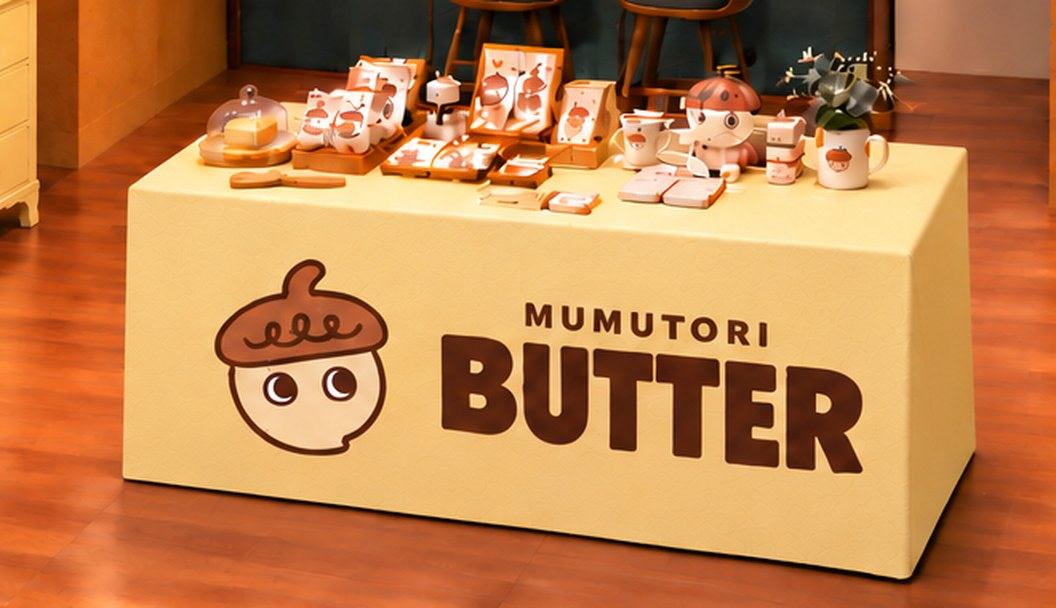
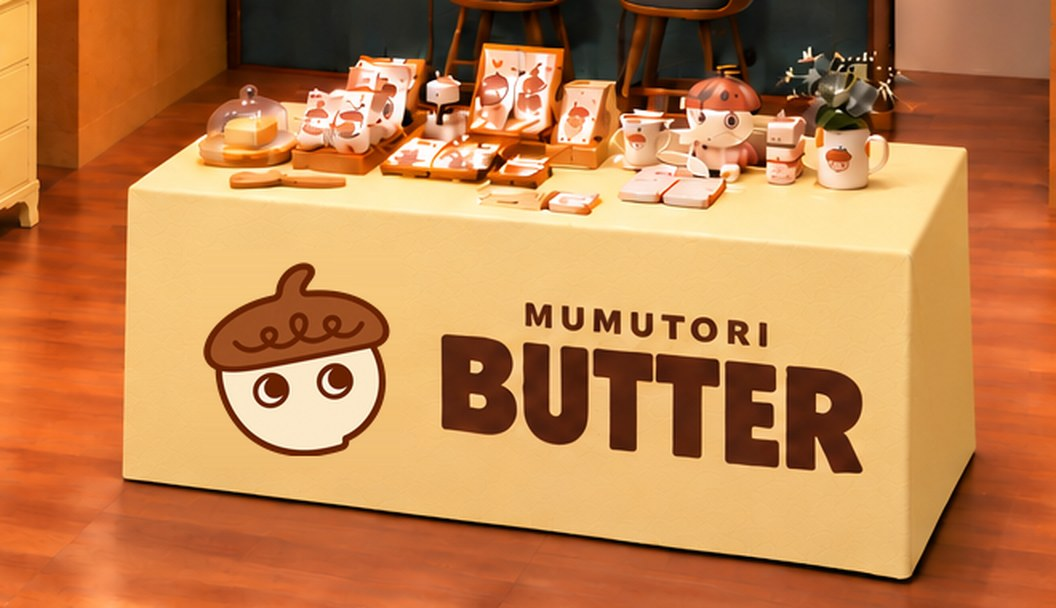
Use the new acorn character everywhere and label the page 다희버전
- Mockup tablecloth and both wall frames now show the new character
- New logo, mark and favicon under fresh file names to avoid stale cache
- Title, header and hero eyebrow say 다희버전

Claude-Session: https://claude.ai/code/session_01HEqwgFMLWVAX178Nhu1X4u

Changed region(s): [[0.1875, 0.4062, 0.375, 0.75]]

diff --git a/index.html b/index.html
@@ -1,25 +1,25 @@
 <!DOCTYPE html>
 <html lang="ko"><head><meta charset="utf-8"/><meta name="viewport" content="width=device-width,initial-scale=1"/><meta name="robots" content="noindex,nofollow"/><meta name="referrer" content="no-referrer"/><meta name="theme-color" content="#EFE9E4"/>
-<title>무무토리 소품상점 · 오픈 준비</title><meta name="description" content="버터색 테이블보와 빈티지 가구, 씨앗 컴퍼니 캐릭터가 있는 무무토리 소품상점 오픈 준비 페이지."/>
-<link rel="icon" href="assets/favicon.png" type="image/png"/><link rel="stylesheet" href="clean.css?v=clean1"/></head>
+<title>무무토리 소품상점 · 오픈 준비 (다희버전)</title><meta name="description" content="버터색 테이블보와 빈티지 가구, 씨앗 컴퍼니 캐릭터가 있는 무무토리 소품상점 오픈 준비 페이지."/>
+<link rel="icon" href="assets/favicon-dahee.png" type="image/png"/><link rel="stylesheet" href="clean.css?v=dahee1"/></head>
 <body>
-<header class="top"><div class="wrap"><a class="brand" href="#top"><img src="assets/brand-mark.png" alt=""/><span>무무토리 소품상점<small>OPEN 10.31</small></span></a>
+<header class="top"><div class="wrap"><a class="brand" href="#top"><img src="assets/mark-dahee.png" alt=""/><span>무무토리 소품상점 · 다희버전<small>OPEN 10.31</small></span></a>
 <nav aria-label="페이지 메뉴"><a href="#store">매장</a><a href="#sign">간판</a><a href="#seeds">씨앗 컴퍼니</a><a href="#todo">오픈 준비</a></nav></div></header>
 <main id="top">
 <section class="wrap hero">
-<div><img class="hero-logo" src="assets/brand-logo.png" alt="무무토리 로고" width="600" height="711"/>
-<p class="eyebrow">Mumutori little shop · 3개월 팝업</p>
+<div><img class="hero-logo" src="assets/logo-dahee.png" alt="무무토리 로고" width="600" height="711"/>
+<p class="eyebrow">Mumutori little shop · 다희버전</p>
 <h1>버터 한 덩이 위에<br/>작은 씨앗 친구들.</h1>
 <p class="lead">버터색 테이블보로 감싼 가운데 테이블, 버터색으로 칠한 빈티지 가구, 타자기로 보내는 편지. 무무토리와 씨앗 컴퍼니가 함께하는 작은 소품상점이에요.</p>
 <div class="chips"><span class="chip strong">10/31 오픈 목표</span><span class="chip">10/27 테이블보·가구·간판 설치</span><span class="chip">메인 매장만 작게</span></div></div>
-<div class="hero-img"><button class="zoom" type="button" data-image="assets/mumutori-interior-v3.jpg" data-caption="10/24 매장 목업 · 버터 테이블보, 빈티지 가구, 캐릭터 액자, 타자기·우편함 코너" aria-label="10/24 매장 목업 크게 보기"><img src="assets/mumutori-interior-v3.jpg" alt="10/24 매장 목업" width="1536" height="1024" loading="lazy"/></button></div>
+<div class="hero-img"><button class="zoom" type="button" data-image="assets/mumutori-interior-v3.jpg?v=dahee1" data-caption="10/24 매장 목업 · 버터 테이블보, 빈티지 가구, 캐릭터 액자, 타자기·우편함 코너" aria-label="10/24 매장 목업 크게 보기"><img src="assets/mumutori-interior-v3.jpg?v=dahee1" alt="10/24 매장 목업" width="1536" height="1024" loading="lazy"/></button></div>
 </section>
 
 <section class="section" id="store"><div class="wrap">
 <div class="sec-head"><div><p class="eyebrow">01 · Store</p><h2>테이블보 한 장으로,<br/>버터 한 덩이.</h2><p>후면 계단 아래 카운터와 벽면 우드·조명은 그대로 두고, 가구와 패브릭만 바꿔 버터 무드를 만들어요.</p></div><span class="sec-side">10/24 변경 반영<br/>실측 전 시안</span></div>
 <div class="ba">
 <figure><button class="zoom" type="button" data-image="assets/store-inside.jpg" data-caption="지금 매장 · 큰 중앙 테이블, 양쪽 우드 벽, 계단 아래 카운터" aria-label="지금 매장 사진 크게 보기"><img src="assets/store-inside.jpg" alt="지금 매장 사진" width="1824" height="1368" loading="lazy"/><span class="tag">BEFORE</span></button><figcaption><h3>지금의 공간</h3><p>큰 중앙 테이블과 우드 벽, 계단 아래 카운터</p></figcaption></figure>
-<figure><button class="zoom" type="button" data-image="assets/mumutori-interior-v3.jpg" data-caption="무무토리 매장 시안 · 10/24" aria-label="무무토리 매장 시안 크게 보기"><img src="assets/mumutori-interior-v3.jpg" alt="무무토리 매장 시안" width="1536" height="1024" loading="lazy"/><span class="tag">AFTER</span></button><figcaption><h3>무무토리 소품상점</h3><p>버터 테이블보 · 빈티지 가구 · 캐릭터 액자 · 타자기 코너</p></figcaption></figure>
+<figure><button class="zoom" type="button" data-image="assets/mumutori-interior-v3.jpg?v=dahee1" data-caption="무무토리 매장 시안 · 10/24" aria-label="무무토리 매장 시안 크게 보기"><img src="assets/mumutori-interior-v3.jpg?v=dahee1" alt="무무토리 매장 시안" width="1536" height="1024" loading="lazy"/><span class="tag">AFTER</span></button><figcaption><h3>무무토리 소품상점</h3><p>버터 테이블보 · 빈티지 가구 · 캐릭터 액자 · 타자기 코너</p></figcaption></figure>
 </div>
 <div class="points">
 <div class="point"><span class="num">A</span><h3>버터 테이블보</h3><p>기존 테이블을 4면 박스형 테이블보로 감싸 모서리가 딱 떨어지게.</p><ul><li>앞면 도토리 + MUMUTORI BUTTER</li><li>옆면 작은 도토리, 상판 무지</li><li>폴리 원단 실사출력</li></ul></div>
@@ -28,8 +28,8 @@
 <div class="point"><span class="num">D</span><h3>타자기 코너</h3><p>오른쪽 벽 끝에 타자기 책상·스툴, 바로 위에 우편함.</p><ul><li>쓰고 → 넣고 → 카운터 결제</li><li>다음날 타자기로 인쇄·발송</li></ul></div>
 </div>
 <div class="duo">
-<figure><button class="zoom" type="button" data-image="assets/mumutori-butter-cloth-v3.jpg" data-caption="버터 테이블보 상세 · 색과 치수는 실측·원단 시안 후 확정" aria-label="버터 테이블보 상세 크게 보기"><img src="assets/mumutori-butter-cloth-v3.jpg" alt="버터 테이블보 상세" width="1056" height="608" loading="lazy"/><span class="tag">TABLECLOTH</span></button><figcaption><h3>가운데 버터 테이블</h3><p>약 200×60cm 기존 테이블 + 박스형 테이블보</p></figcaption></figure>
-<div class="corner"><button class="zoom" type="button" data-image="assets/mumutori-letter-corner-v3.jpg" data-caption="타자기 책상·스툴·우편함과 캐릭터 액자" aria-label="타자기 코너 크게 보기"><img src="assets/mumutori-letter-corner-v3.jpg" alt="타자기 코너" width="620" height="1080" loading="lazy"/></button><div><h3>오늘 쓴 편지, 다음날 타자기로.</h3><ol><li>책상에서 편지를 쓰고</li><li>바로 위 우편함에 넣고</li><li>카운터에서 결제하면</li><li>다음날 타자기로 인쇄해 우편 발송</li></ol><p class="note">용지·글자 수·가격은 타자기 시험 후 정해요.</p></div></div>
+<figure><button class="zoom" type="button" data-image="assets/mumutori-butter-cloth-v3.jpg?v=dahee1" data-caption="버터 테이블보 상세 · 색과 치수는 실측·원단 시안 후 확정" aria-label="버터 테이블보 상세 크게 보기"><img src="assets/mumutori-butter-cloth-v3.jpg?v=dahee1" alt="버터 테이블보 상세" width="1056" height="608" loading="lazy"/><span class="tag">TABLECLOTH</span></button><figcaption><h3>가운데 버터 테이블</h3><p>약 200×60cm 기존 테이블 + 박스형 테이블보</p></figcaption></figure>
+<div class="corner"><button class="zoom" type="button" data-image="assets/mumutori-letter-corner-v3.jpg?v=dahee1" data-caption="타자기 책상·스툴·우편함과 캐릭터 액자" aria-label="타자기 코너 크게 보기"><img src="assets/mumutori-letter-corner-v3.jpg?v=dahee1" alt="타자기 코너" width="620" height="1080" loading="lazy"/></button><div><h3>오늘 쓴 편지, 다음날 타자기로.</h3><ol><li>책상에서 편지를 쓰고</li><li>바로 위 우편함에 넣고</li><li>카운터에서 결제하면</li><li>다음날 타자기로 인쇄해 우편 발송</li></ol><p class="note">용지·글자 수·가격은 타자기 시험 후 정해요.</p></div></div>
 </div>
 <div class="callout"><strong>10/24 결정</strong> · 버터 조형 주문제작은 견적 750만 원·제작 약 한 달이라 오픈(10/31)에 맞출 수 없어 보류했어요. 대신 테이블보와 빈티지 가구로 먼저 열고, 반응을 보고 다시 생각해요.</div>
 </div></section>
@@ -39,9 +39,9 @@
 <div class="sign-grid">
 <figure><button class="zoom" type="button" data-image="assets/store-front.jpg" data-caption="지금 매장 정면 · 간판 위치와 환기구·유리·출입문 확인용" aria-label="지금 매장 정면 크게 보기"><img src="assets/store-front.jpg" alt="지금 매장 정면" width="1824" height="1368" loading="lazy"/><span class="tag">지금 정면</span></button><figcaption><h3>간판이 들어갈 자리</h3><p>정면 글자 간판과 돌출간판을 바꾸고, 환기구·유리·출입문은 가리지 않아요.</p></figcaption></figure>
 <div><div class="sign-stage" aria-label="간판 시안 미리보기">
-<div><div class="fascia"><img src="assets/brand-mark.png" alt=""/><div><div class="name">무무토리</div><div class="sub">소품상점</div></div></div><p class="sign-label">정면 간판 · 크림 바탕 + 짙은 갈색 글자</p></div>
-<div class="sign-row"><div><div class="blade"><img src="assets/brand-mark.png" alt=""/></div><p class="sign-label">돌출간판 · 원형</p></div>
-<div><div class="stand"><img src="assets/brand-mark.png" alt=""/><b>무무토리</b><span>소품상점<br/>타자기로 보내는 편지</span></div><p class="sign-label" style="margin-top:30px">입구 스탠드 배너</p></div></div>
+<div><div class="fascia"><img src="assets/mark-dahee.png" alt=""/><div><div class="name">무무토리</div><div class="sub">소품상점</div></div></div><p class="sign-label">정면 간판 · 크림 바탕 + 짙은 갈색 글자</p></div>
+<div class="sign-row"><div><div class="blade"><img src="assets/mark-dahee.png" alt=""/></div><p class="sign-label">돌출간판 · 원형</p></div>
+<div><div class="stand"><img src="assets/mark-dahee.png" alt=""/><b>무무토리</b><span>소품상점<br/>타자기로 보내는 편지</span></div><p class="sign-label" style="margin-top:30px">입구 스탠드 배너</p></div></div>
 </div>
 <div class="decide"><h3>간판 업체에 물어볼 것</h3><dl>
 <dt>크기</dt><dd>정면 간판 폭·높이, 돌출간판 지름 — 실측 후 확정</dd>
@@ -58,7 +58,7 @@
 <div class="sec-head"><div><p class="eyebrow">03 · Seed Company</p><h2>무무토리와<br/>씨앗 컴퍼니.</h2><p>모두 씨앗에서 출발한 친구들이에요. 도토리 무무토리와 병아리콩·밤·땅콩·완두콩·해바라기씨·쌀이 함께해요.</p></div><span class="sec-side">캐릭터 굿즈 시안</span></div>
 <div class="cast-wrap">
 <figure><button class="zoom" type="button" data-image="assets/characters/lineup.jpg" data-caption="씨앗 컴퍼니 · 병아리콩·밤·땅콩·완두콩 삼형제·해바라기씨·쌀" aria-label="씨앗 컴퍼니 친구들 크게 보기"><img src="assets/characters/lineup.jpg" alt="씨앗 컴퍼니 친구들" width="1400" height="933" loading="lazy"/><span class="tag">SEED COMPANY</span></button></figure>
-<div><div class="logos"><button class="zoom" type="button" data-image="assets/brand-logo.png" data-caption="무무토리 컬러 로고" aria-label="컬러 로고 크게 보기"><img src="assets/brand-logo.png" alt="컬러 로고" width="600" height="711" loading="lazy"/></button><button class="zoom" type="button" data-image="assets/characters/logo-line.png" data-caption="무무토리 단색 선 로고 · 도장·자수·단색 인쇄용" aria-label="선 로고 크게 보기"><img src="assets/characters/logo-line.png" alt="선 로고" width="459" height="571" loading="lazy"/></button></div>
+<div><div class="logos"><button class="zoom" type="button" data-image="assets/logo-dahee.png" data-caption="무무토리 컬러 로고" aria-label="컬러 로고 크게 보기"><img src="assets/logo-dahee.png" alt="컬러 로고" width="600" height="711" loading="lazy"/></button><button class="zoom" type="button" data-image="assets/characters/logo-line.png" data-caption="무무토리 단색 선 로고 · 도장·자수·단색 인쇄용" aria-label="선 로고 크게 보기"><img src="assets/characters/logo-line.png" alt="선 로고" width="459" height="571" loading="lazy"/></button></div>
 <ul class="cast"><li><b>도토리 무무토리</b><span>대표 캐릭터 · 꼬불꼬불 모자</span></li><li><b>병아리콩</b><span>병아리를 닮은 노란 콩</span></li><li><b>밤</b><span>반쯤 졸린 눈의 밤 친구</span></li><li><b>땅콩</b><span>시큰둥한 표정의 땅콩</span></li><li><b>완두콩 삼형제</b><span>새싹 달린 세 알</span></li><li><b>해바라기씨</b><span>해를 안은 씨앗</span></li><li><b>쌀</b><span>목도리를 두른 쌀알</span></li></ul></div>
 </div>
 <h3 class="group-title">굿즈 라인업</h3>
